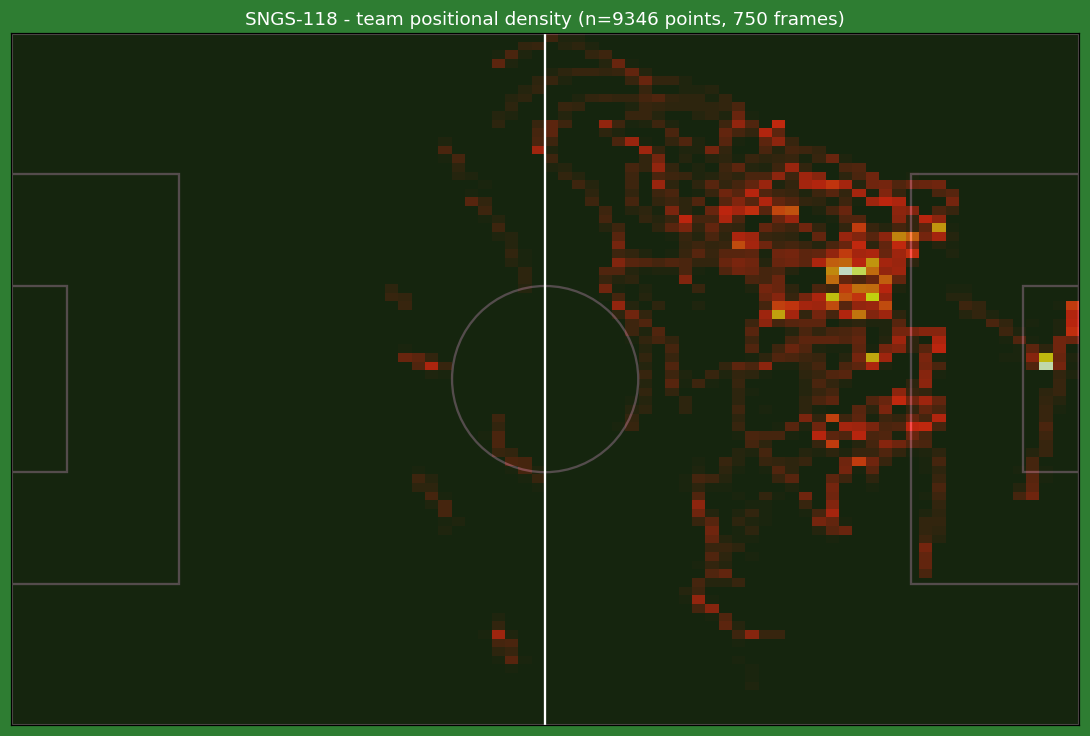
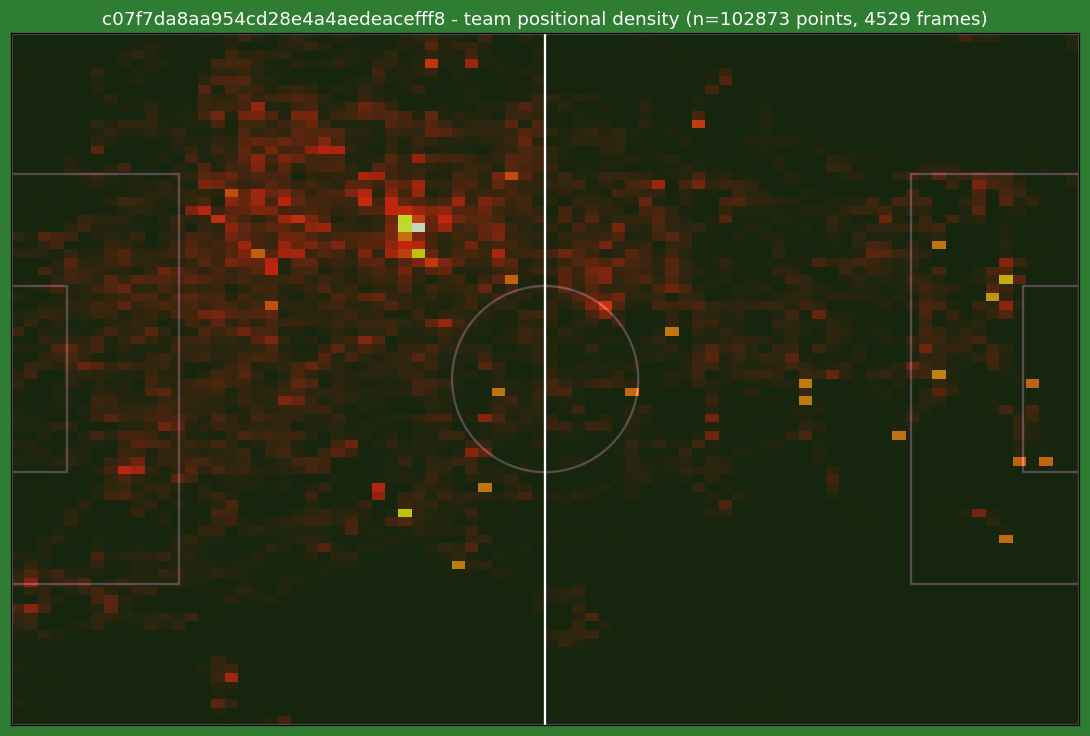
feat(demo): use real Tottenham frames + deliverables in walkthrough
- clean raw frame for calibration (fixes annotated-frame issue)
- team-colored frame for find-players
- real coach analytics (heatmap/formation/territory) in results
- Open-full-results links to the live Drive folder

diff --git a/site/demo.html b/site/demo.html
@@ -67,7 +67,7 @@
   <section id="step-players" class="card stage hidden">
     <h2 style="margin:0 0 8px">Find the players</h2>
     <p class="hint">We detect and track every player automatically. Optionally name a couple.</p>
-    <img id="tracked" src="demo/football_tracked.png" alt="Tracked players" style="max-width:100%;border:1px solid var(--line);border-radius:10px;display:block">
+    <img id="tracked" src="demo/football_tracked.jpg" alt="Tracked players" style="max-width:100%;border:1px solid var(--line);border-radius:10px;display:block">
     <div class="tagrow"><span class="demonote">Player&nbsp;#7</span><input type="text" placeholder="e.g. Son"></div>
     <div class="tagrow"><span class="demonote">Player&nbsp;#5</span><input type="text" placeholder="e.g. Romero"></div>
     <div class="row">
@@ -102,13 +102,13 @@
   <!-- STEP 5 -->
   <section id="step-results" class="card stage hidden">
     <h2 style="margin:0 0 8px">Your analysis is ready</h2>
-    <p class="hint">A sample of the coach analytics. Every match gets its own set.</p>
+    <p class="hint">Real coach analytics from a Tottenham vs Watford match. Every match gets its own set.</p>
     <div class="grid">
       <figure><img src="demo/results/heatmap_team.png" alt="Team heatmap"><figcaption>Team heatmap</figcaption></figure>
-      <figure><img src="demo/results/heatmap_a.png" alt="Player heatmap"><figcaption>Player movement</figcaption></figure>
-      <figure><img src="demo/results/heatmap_b.png" alt="Player heatmap"><figcaption>Player movement</figcaption></figure>
+      <figure><img src="demo/results/heatmap_a.png" alt="Formation"><figcaption>Formation</figcaption></figure>
+      <figure><img src="demo/results/heatmap_b.png" alt="Territory control"><figcaption>Territory control</figcaption></figure>
     </div>
-    <p class="msg demonote">Sample output — matches you submit are processed for you.</p>
+    <p class="msg demonote">Real output from a processed match — submit yours and we do the same.</p>
     <div class="row">
       <a id="results-open" class="btn btn-primary" href="jobs.html">Open the full results</a>
       <button class="btn btn-ghost" id="restart">Run the demo again</button>
@@ -122,7 +122,7 @@
 
   // Where "Open the full results" points. Swapped to the real Tottenham
   // results_url once that job is ready (see plan Task 6).
-  const RESULTS_URL = "jobs.html";
+  const RESULTS_URL = "https://drive.google.com/drive/folders/1mJctlRymvO0KrtRSyI0JhCVO9wVjUw-K";
   document.getElementById("results-open").href = RESULTS_URL;
 
   const el = (id) => document.getElementById(id);
@@ -156,7 +156,7 @@
     canvas.height = Math.round(img.naturalHeight * scale);
     redraw();
   };
-  img.src = "demo/football_frame.png";
+  img.src = "demo/football_frame.jpg";
 
   function redraw(overlay = null) {
     ctx.drawImage(img, 0, 0, canvas.width, canvas.height);
